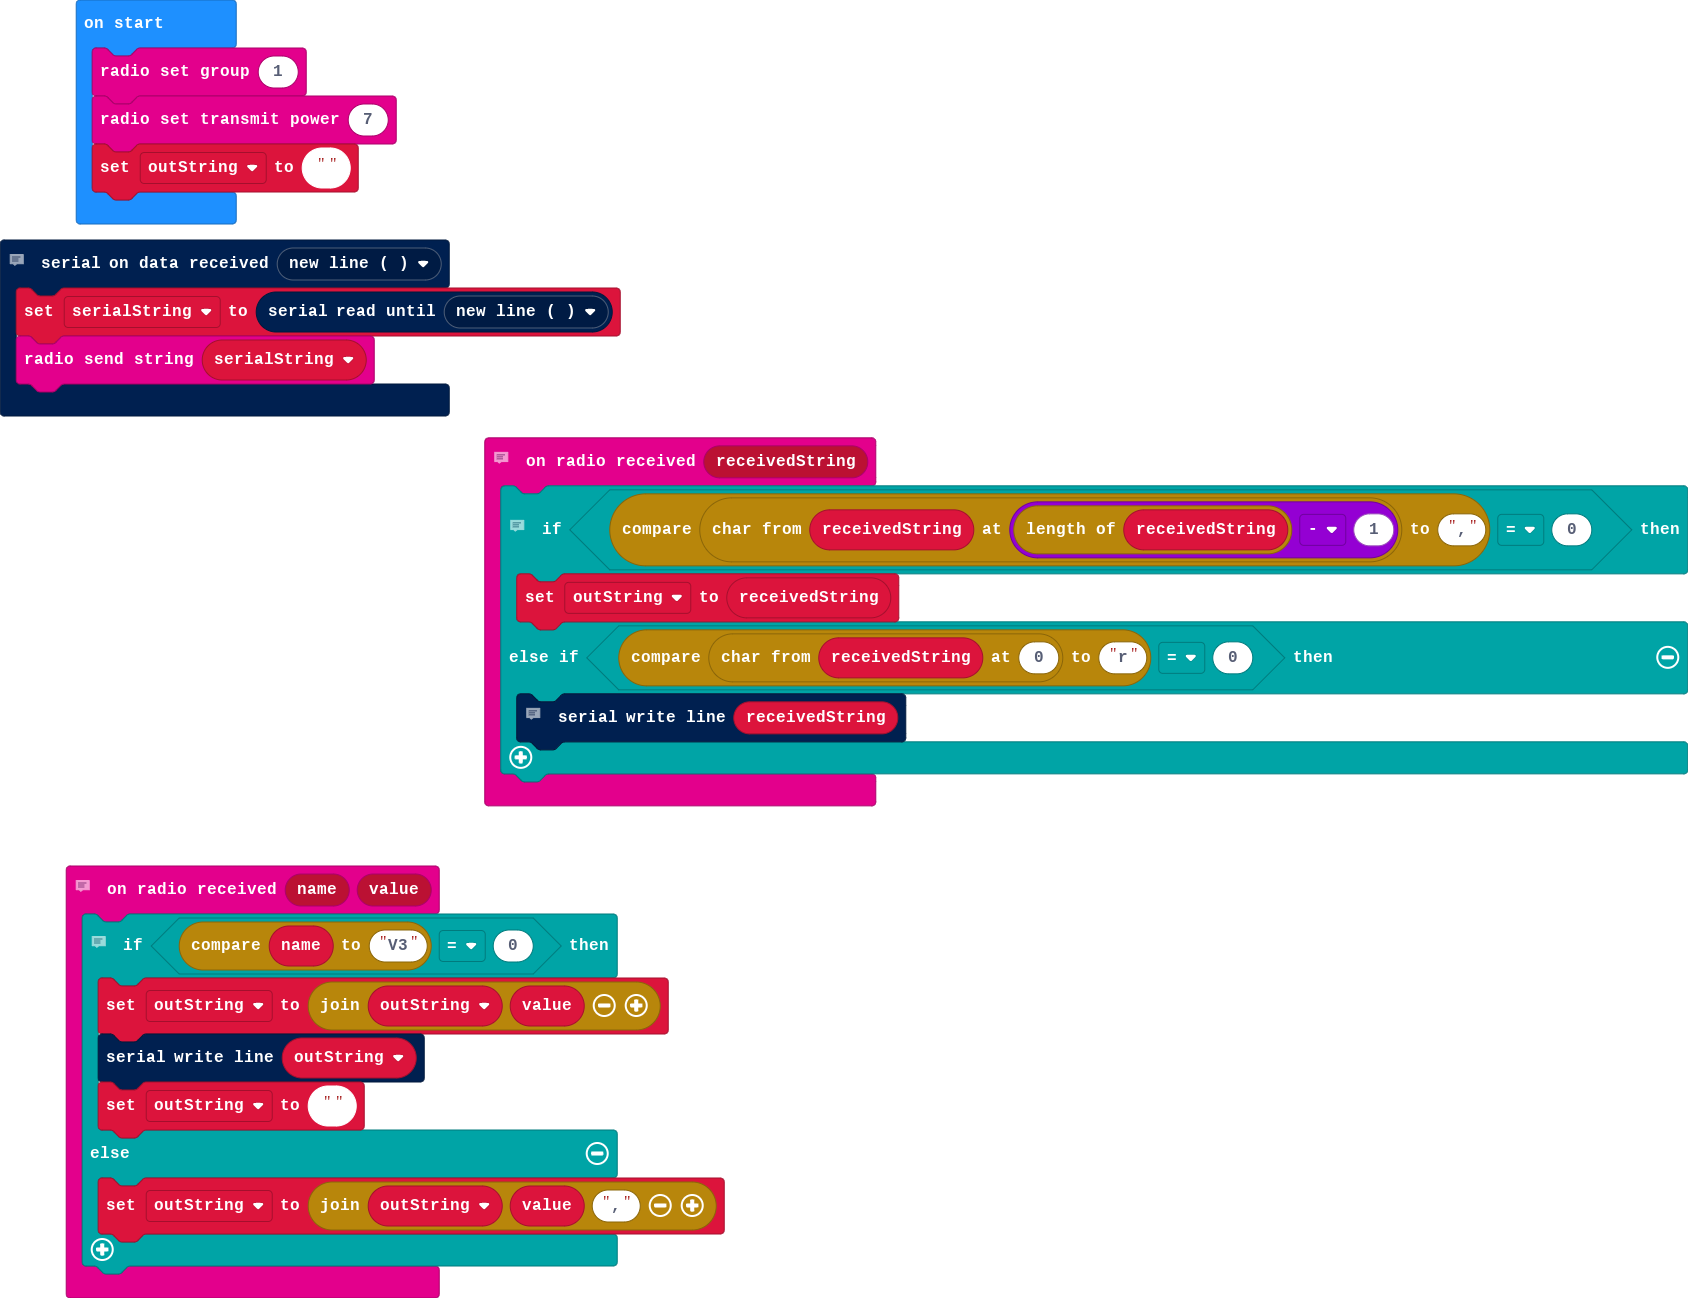
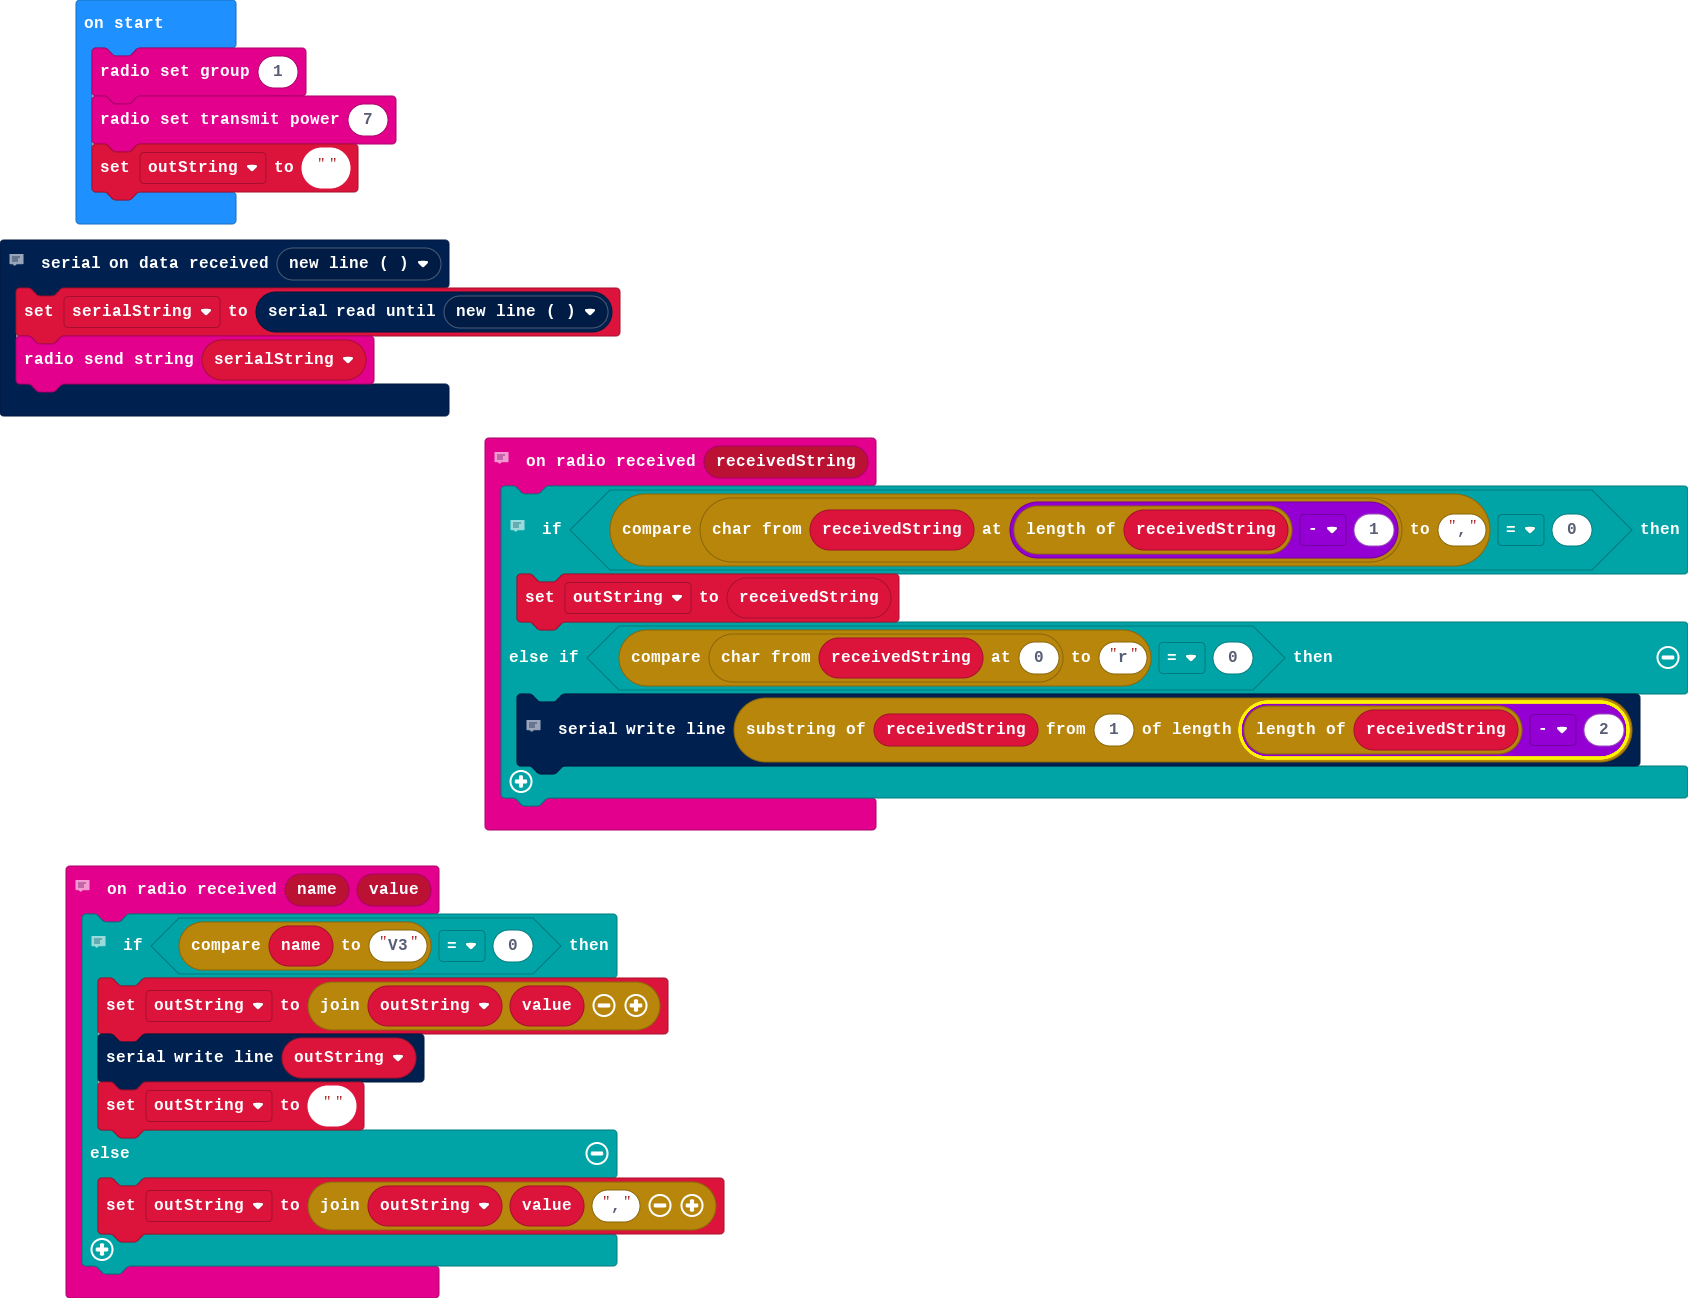
Update main.blocks, main.ts

Changed region(s): [[0.2773, 0.5239, 1.0, 0.6471], [0.6469, 0.3698, 0.6777, 0.4006]]

diff --git a/main.ts b/main.ts
@@ -5,7 +5,7 @@ radio.onReceivedString(function (receivedString) {
         outString = receivedString
     } else if (receivedString.charAt(0).compare("r") == 0) {
         // This is read time data string
-        serial.writeLine(receivedString)
+        serial.writeLine(receivedString.substr(1, receivedString.length - 2))
     }
 })
 // Expect 4 name/value pairs
